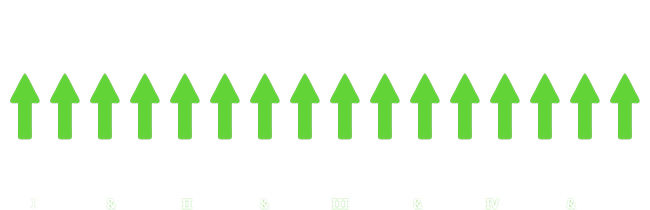
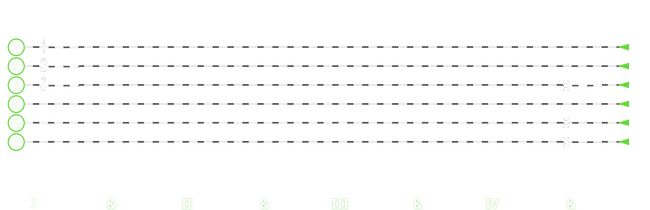
first very slow version

Changed region(s): [[0.0, 0.2571, 0.9846, 0.7143], [0.0, 0.1714, 0.9846, 0.2571]]

diff --git a/TabsWidget.py b/TabsWidget.py
@@ -18,7 +18,7 @@ class TabWidget(QDialog):
         uic.loadUi("src/tab_widget.ui", self)
 
         self.tabs = TablaturesPaint()
-        self.tabs.clear_all_tablatures(DEFAULT_NAME_FINALE_TABLATURES_IMAGE, True)
+        self.tabs.clear_all_finale_image(DEFAULT_NAME_FINALE_TABLATURES_IMAGE, False)
 
         self.resetButton.clicked.connect(self.reset_pressed)
         self.submitButton.clicked.connect(self.submit_pressed)
@@ -44,37 +44,61 @@ class TabWidget(QDialog):
 
         self.lineEditChord.textChanged.connect(self.tab_chord_changed)
 
-        self.lineEditString_1.textChanged(lambda: self.string_status_changed(1))
-        self.lineEditString_2.textChanged(lambda: self.string_status_changed(2))
-        self.lineEditString_3.textChanged(lambda: self.string_status_changed(3))
-        self.lineEditString_4.textChanged(lambda: self.string_status_changed(4))
-        self.lineEditString_5.textChanged(lambda: self.string_status_changed(5))
-        self.lineEditString_6.textChanged(lambda: self.string_status_changed(6))
+        self.lineEditString_1.textChanged.connect(lambda: self.string_status_changed(1))
+        self.lineEditString_2.textChanged.connect(lambda: self.string_status_changed(2))
+        self.lineEditString_3.textChanged.connect(lambda: self.string_status_changed(3))
+        self.lineEditString_4.textChanged.connect(lambda: self.string_status_changed(4))
+        self.lineEditString_5.textChanged.connect(lambda: self.string_status_changed(5))
+        self.lineEditString_6.textChanged.connect(lambda: self.string_status_changed(6))
 
         self.lineEditName.textChanged.connect(self.tabs_name_changed)
+        self.refresh_global_name_input()
 
     def update_tab_menu(self):
         index = self.actual_row
-        self.lineEditString_1.textChanged(self.tabs.get_cell_status((index, 1)))
-        self.lineEditString_2.textChanged(self.tabs.get_cell_status((index, 2)))
-        self.lineEditString_3.textChanged(self.tabs.get_cell_status((index, 3)))
-        self.lineEditString_4.textChanged(self.tabs.get_cell_status((index, 4)))
-        self.lineEditString_5.textChanged(self.tabs.get_cell_status((index, 5)))
-        self.lineEditString_6.textChanged(self.tabs.get_cell_status((index, 6)))
+        self.lineEditString_1.textChanged.connect(lambda: self.tabs.get_cell_status((index, 0)))
+        self.lineEditString_2.textChanged.connect(lambda: self.tabs.get_cell_status((index, 1)))
+        self.lineEditString_3.textChanged.connect(lambda: self.tabs.get_cell_status((index, 2)))
+        self.lineEditString_4.textChanged.connect(lambda: self.tabs.get_cell_status((index, 3)))
+        self.lineEditString_5.textChanged.connect(lambda: self.tabs.get_cell_status((index, 4)))
+        self.lineEditString_6.textChanged.connect(lambda: self.tabs.get_cell_status((index, 5)))
+        self.lineEditChord.textChanged.connect(lambda: self.tabs.get_position_name(index))
 
     def change_actual_row(self, index):
         self.actual_row = index - 1
         self.update_tab_menu()
+        self.refresh_string_inputs()
+        self.refresh_chord_input()
+
+    def refresh_chord_input(self):
+        name = self.tabs.get_position_name(self.actual_row)
+        self.lineEditChord.blockSignals(True)
+        self.lineEditChord.setText(str(name))
+        self.lineEditChord.blockSignals(False)
+
+    def refresh_string_inputs(self):
+        for string_idx in range(6):
+            val = self.tabs.get_cell_status((self.actual_row, string_idx))
+            le: QtWidgets.QLineEdit = getattr(self, f"lineEditString_{string_idx + 1}")
+            le.blockSignals(True)
+            le.setText(str(val))
+            le.blockSignals(False)
+
+    def refresh_global_name_input(self):
+        global_name = self.tabs.get_global_name()
+        self.lineEditName.blockSignals(True)
+        self.lineEditName.setText(str(global_name))
+        self.lineEditName.blockSignals(False)
 
     def tab_chord_changed(self):
         new_name = self.lineEditChord.text()
-        # self.tabs.set_name(self.actual_row, new_name)
+        self.tabs.set_cell_status(self.actual_row, new_name)
         self.update_visual_display()
 
     def string_status_changed(self, index):
         string = eval(f"self.lineEditString_{index}")
-        new_name = string.text()
-        self.tabs.set_cell_status((self.actual_row, index), new_name)
+        new_element = string.text()
+        self.tabs.update_tablatures_position((self.actual_row, index - 1), new_element)
         self.update_visual_display()
 
     def submit_pressed(self):
@@ -82,6 +106,7 @@ class TabWidget(QDialog):
 
     def reset_pressed(self):
         self.tabs.clear_all_tablatures(DEFAULT_NAME_FINALE_TABLATURES_IMAGE, True)
+        self.refresh_global_name_input()
         self.update_tab_menu()
         self.update_visual_display()
 

diff --git a/Tablatures_paint.py b/Tablatures_paint.py
@@ -36,32 +36,42 @@ class TablaturesPaint(Paint):
         self.clear_rectangle_finale_image(self.coordinates_by_position(position),
                                           self.tablatures_size, name_finale_image)
         self.draw_a_picture_by_number(self.columns[position[0]].tablatures[position[1]],
-                                      self.coordinates_by_position(position),  self.tablatures_size,
+                                      self.coordinates_by_position(position), self.tablatures_size,
                                       name_finale_image)
 
     def save(self, original_size=TABLATURES_ORIGINAL_SIZE):
         name_tablatures = PATH_TABLATURES + self.global_name + ".png"
-        image = Image.new("RGBA", original_size, (255, 255, 255, 0))
-        image.save(name_tablatures)
-        image.close()
-        del image
+        with Image.open(self.name_background_image) as background_image:
+            background_image.save(name_tablatures)
         for i in range(len(self.columns)):
             for j in range(len(self.columns[i].tablatures)):
                 self.change_one_tablatures((i, j), name_tablatures)
 
-    def set_global_name(self, name):
-        self.global_name = name
+    def set_global_name(self, new_global_name):
+        self.global_name = new_global_name
 
-    def set_cell_status(self, position, new_status,
-                        name_finale_image=DEFAULT_NAME_FINALE_TABLATURES_IMAGE):
-        self.columns[position[0]].tablatures[position[1]] = new_status
-        self.change_one_tablatures(position, name_finale_image)
+    def set_cell_status(self, row_number, new_name):
+        self.columns[row_number].name = new_name
+
+    def update_tablatures_position(self, position, new_tablature,
+                                   name_finale_image=DEFAULT_NAME_FINALE_TABLATURES_IMAGE):
+        if len(new_tablature) == 0 or new_tablature == 'x' or new_tablature == '-' or new_tablature.isdigit() or (new_tablature[0] == '-' and new_tablature[1:].isdigit()):
+            if len(new_tablature) == 0 or new_tablature == '-':
+                self.columns[position[0]].tablatures[position[1]] = -2
+            elif new_tablature == 'x':
+                self.columns[position[0]].tablatures[position[1]] = -1
+            else:
+                self.columns[position[0]].tablatures[position[1]] = int(new_tablature)
+            self.change_one_tablatures(position, name_finale_image)
+
+    def get_global_name(self):
+        return self.global_name
 
     def get_position_name(self, position):
-        return self.columns[position[0]].tablatures.name
+        return self.columns[position].name
 
     def get_cell_status(self, position):
         return self.columns[position[0]].tablatures[position[1]]
 
     def coordinates_by_position(self, position):
-        return (position[0] + 1) * DEFAULT_WIDTH_DISTANCE, (position[1] + 1) * DEFAULT_HEIGHT_DISTANCE
+        return 400 + position[0] * 380, 220 + position[1] * 120

diff --git a/Paint.py b/Paint.py
@@ -24,6 +24,7 @@ class Paint:
         self.name_background_image = name_background_image
         self.name_image = name_image
         self.font_small = ImageFont.truetype(font, font_size)
+        print(self.font_small)
         self.quick_update_size()
 
     def clear_rectangle_background(self, coordinate, paste_size):
@@ -122,15 +123,15 @@ class Paint:
                                  name_finale_image=DEFAULT_NAME_FINALE_IMAGE):
         paste_image = Image.new("RGBA", paste_image_size, WHITE_TRANSPARENT)
         draw = ImageDraw.Draw(paste_image)
-        text = '-'
+        text_ = '-'
         match number:
             case -2:
-                text = '-'
+                text_ = '-'
             case -1:
-                text = 'x'
+                text_ = 'x'
             case int() as default if default <= 50:
-                text = str(number)
-        draw.text(coordinate, text, font=self.font_small, fill=(255, 255, 255, 255))
+                text_ = str(number)
+        draw.text((0, 0), text_, font=self.font_small, fill=(255, 255, 255, 255))
         self.change_rectangle_finale_image_paste_image(coordinate, paste_image, name_finale_image)
 
     def quick_change_size(self, new_size):

diff --git a/Consts.py b/Consts.py
@@ -72,6 +72,6 @@ DEFAULT_NAME_FINALE_TABLATURES_IMAGE = "./src/final_images/final_tablatures.png"
 DEFAULT_WIDTH_DISTANCE = 400
 DEFAULT_HEIGHT_DISTANCE = 150
 BASE_FONT = f"./src/{FONT_FILE}"
-TABLATURES_FONT_SIZE = 100
+TABLATURES_FONT_SIZE = 120
 TABLATURES_SIZE = (DEFAULT_WIDTH_DISTANCE, DEFAULT_HEIGHT_DISTANCE)
 PATH_TABLATURES = "./tablatures/"
